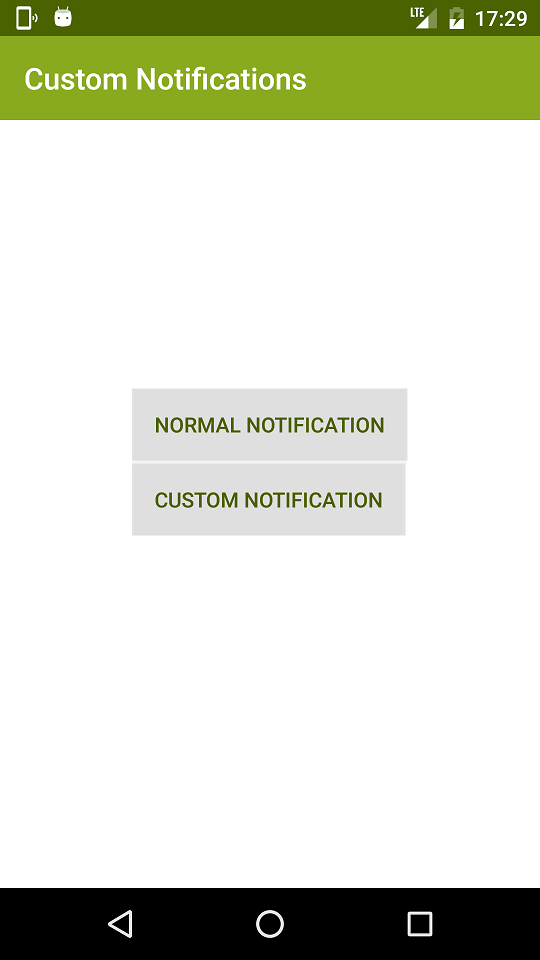
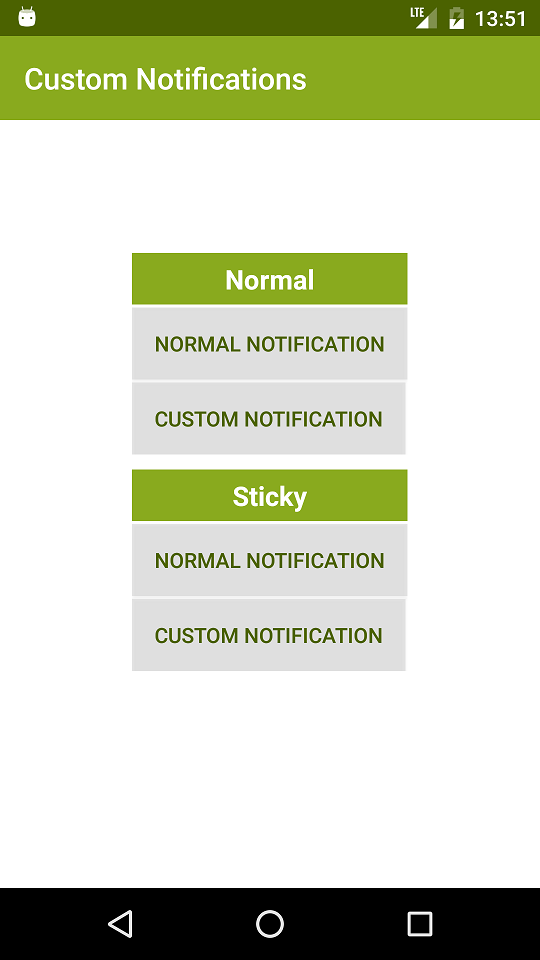
sticky notifications

Changed region(s): [[0.237, 0.25, 0.7704, 0.7188], [0.0296, 0.0, 0.1481, 0.0312], [0.8889, 0.0, 0.9778, 0.0312]]

diff --git a/app/src/main/java/com/siziksu/notifications/ui/manager/NotificationManager.java b/app/src/main/java/com/siziksu/notifications/ui/manager/NotificationManager.java
@@ -35,7 +35,12 @@ public class NotificationManager {
         TaskStackBuilder stack = TaskStackBuilder.create(context);
         stack.addParentStack(MainActivity.class);
         stack.addNextIntent(new Intent(context, MainActivity.class));
-        PendingIntent pending = stack.getPendingIntent(NORMAL_NOTIFICATION_REQUEST_CODE, PendingIntent.FLAG_ONE_SHOT);
+        PendingIntent pending;
+        if (!sticky) {
+            pending = stack.getPendingIntent(NORMAL_NOTIFICATION_REQUEST_CODE, PendingIntent.FLAG_ONE_SHOT);
+        } else {
+            pending = PendingIntent.getActivity(context, NORMAL_NOTIFICATION_REQUEST_CODE, new Intent(), NO_FLAGS);
+        }
         Intent cancel = new Intent(NotificationListener.INTENT);
         cancel.putExtra(NotificationListener.EXTRA_ID, NORMAL_NOTIFICATION_ID);
         cancel.putExtra(NotificationListener.EXTRA_ACTION, NotificationListener.ACTION_CANCEL);
@@ -52,12 +57,13 @@ public class NotificationManager {
                 .setSound(sound)
                 .setColor(Color.GREEN)
                 .addAction(NO_ICON, context.getString(R.string.action_cancel), pendingCancel)
-                .setContentIntent(pending)
-                .setAutoCancel(true);
+                .setContentIntent(pending);
         NotificationManagerCompat notificationManager = NotificationManagerCompat.from(context);
         Notification notification = builder.build();
         if (sticky) {
             notification.flags |= Notification.FLAG_NO_CLEAR | Notification.FLAG_ONGOING_EVENT;
+        } else {
+            notification.flags |= Notification.FLAG_AUTO_CANCEL;
         }
         notificationManager.notify(NORMAL_NOTIFICATION_ID, notification);
     }

diff --git a/app/src/main/java/com/siziksu/notifications/ui/manager/CustomNotificationManager.java b/app/src/main/java/com/siziksu/notifications/ui/manager/CustomNotificationManager.java
@@ -47,19 +47,25 @@ public class CustomNotificationManager {
         TaskStackBuilder stack = TaskStackBuilder.create(context);
         stack.addParentStack(MainActivity.class);
         stack.addNextIntent(new Intent(context, MainActivity.class));
-        PendingIntent pending = stack.getPendingIntent(CUSTOM_NOTIFICATION_REQUEST_CODE, PendingIntent.FLAG_ONE_SHOT);
+        PendingIntent pending;
+        if (!sticky) {
+            pending = stack.getPendingIntent(CUSTOM_NOTIFICATION_REQUEST_CODE, PendingIntent.FLAG_ONE_SHOT);
+        } else {
+            pending = PendingIntent.getActivity(context, CUSTOM_NOTIFICATION_REQUEST_CODE, new Intent(), NO_FLAGS);
+        }
         Uri sound = RingtoneManager.getDefaultUri(RingtoneManager.TYPE_NOTIFICATION);
         NotificationCompat.Builder builder = new NotificationCompat.Builder(context)
                 .setSmallIcon(R.drawable.ic_phone_call_24dp)
                 .setSound(sound)
                 .setCustomContentView(remoteViews)
                 .setCustomBigContentView(bigRemoteViews)
-                .setContentIntent(pending)
-                .setAutoCancel(true);
+                .setContentIntent(pending);
         NotificationManagerCompat notificationManager = NotificationManagerCompat.from(context);
         Notification notification = builder.build();
         if (sticky) {
             notification.flags |= Notification.FLAG_NO_CLEAR | Notification.FLAG_ONGOING_EVENT;
+        } else {
+            notification.flags |= Notification.FLAG_AUTO_CANCEL;
         }
         notificationManager.notify(CUSTOM_NOTIFICATION_ID, notification);
     }
